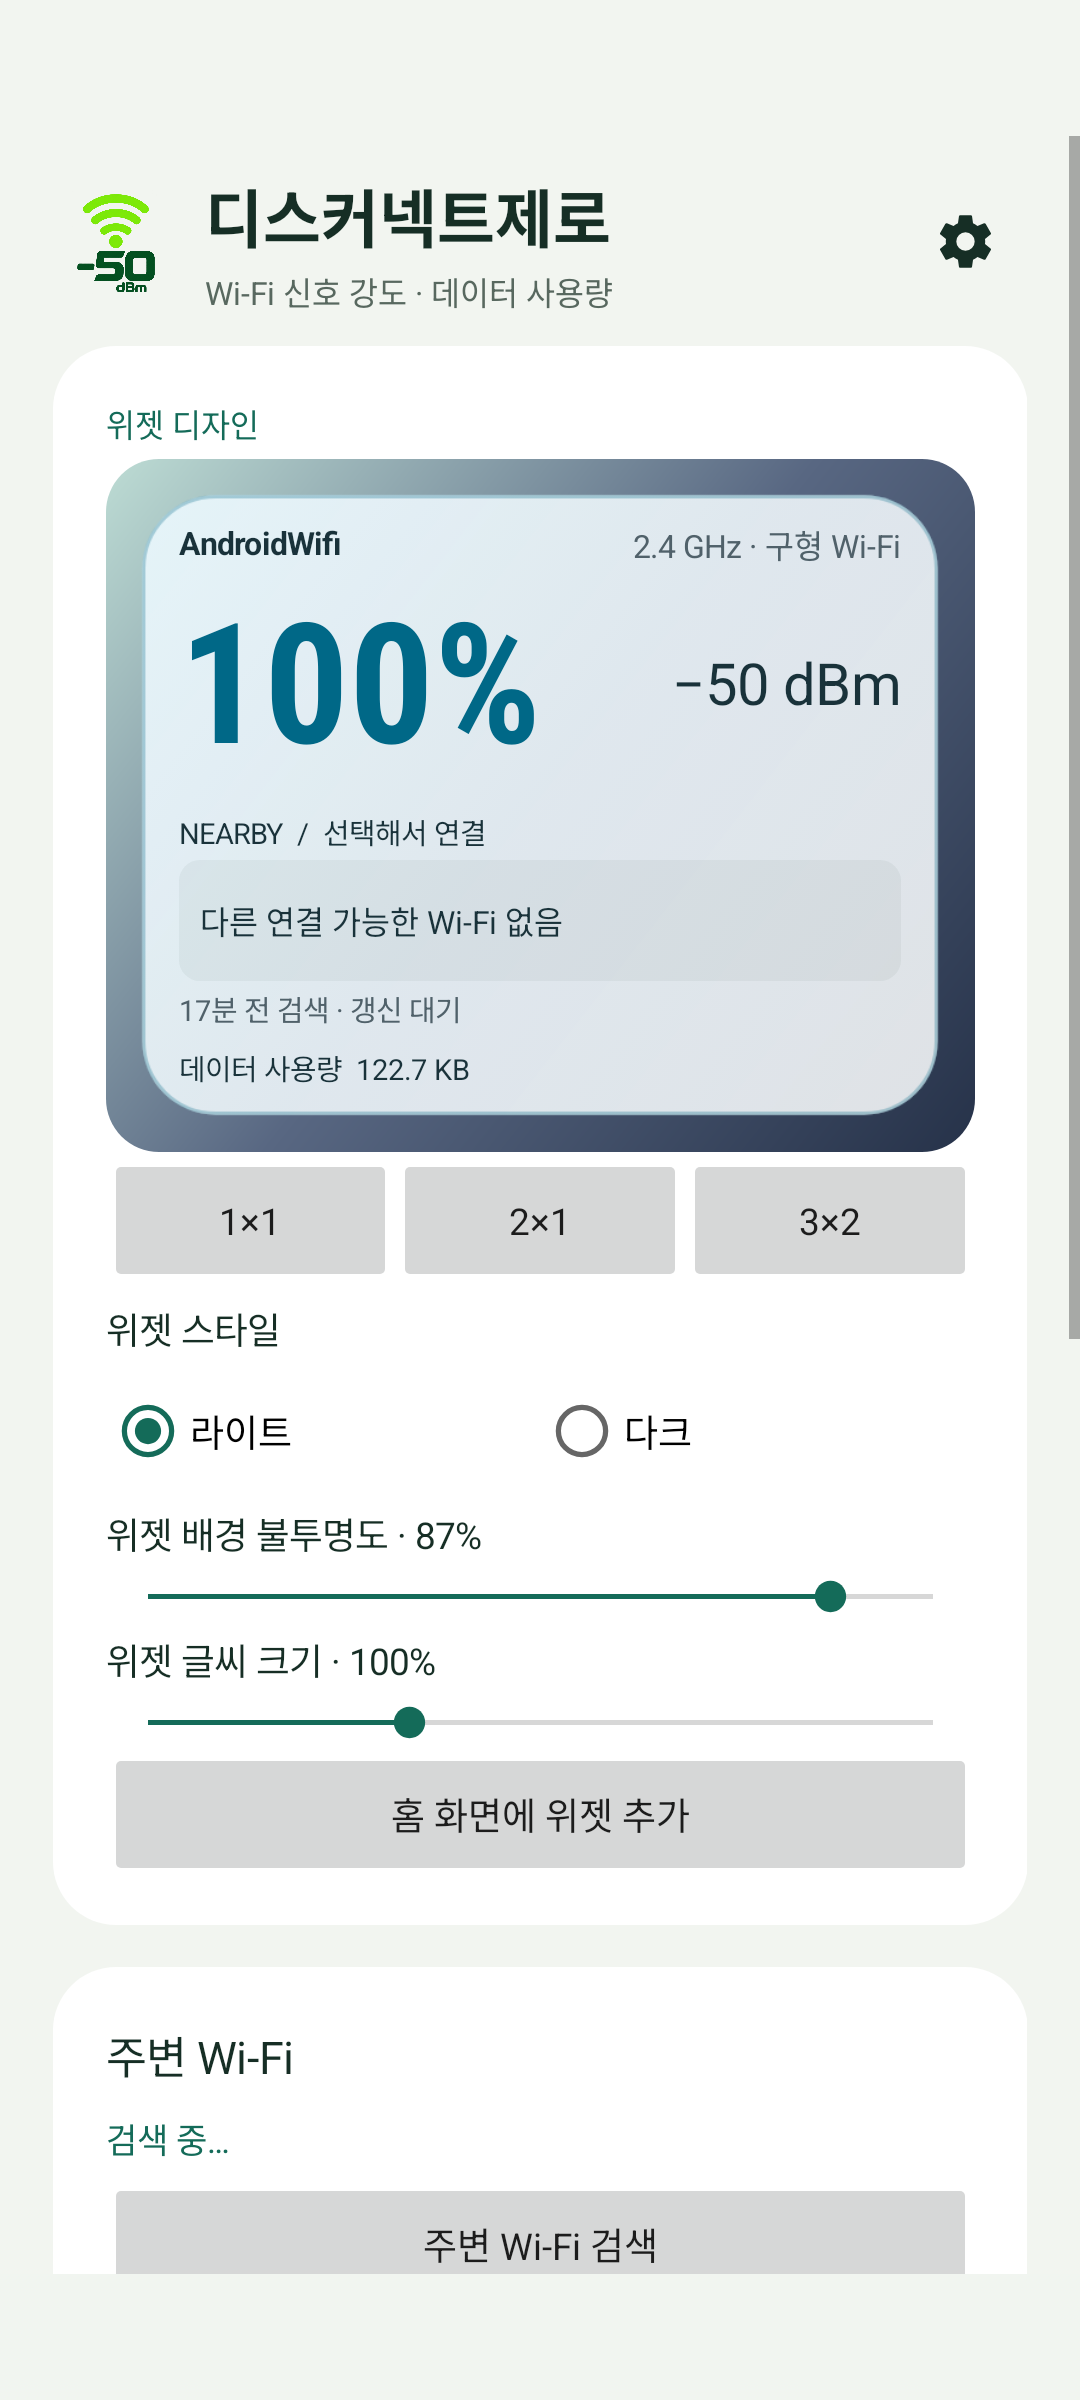
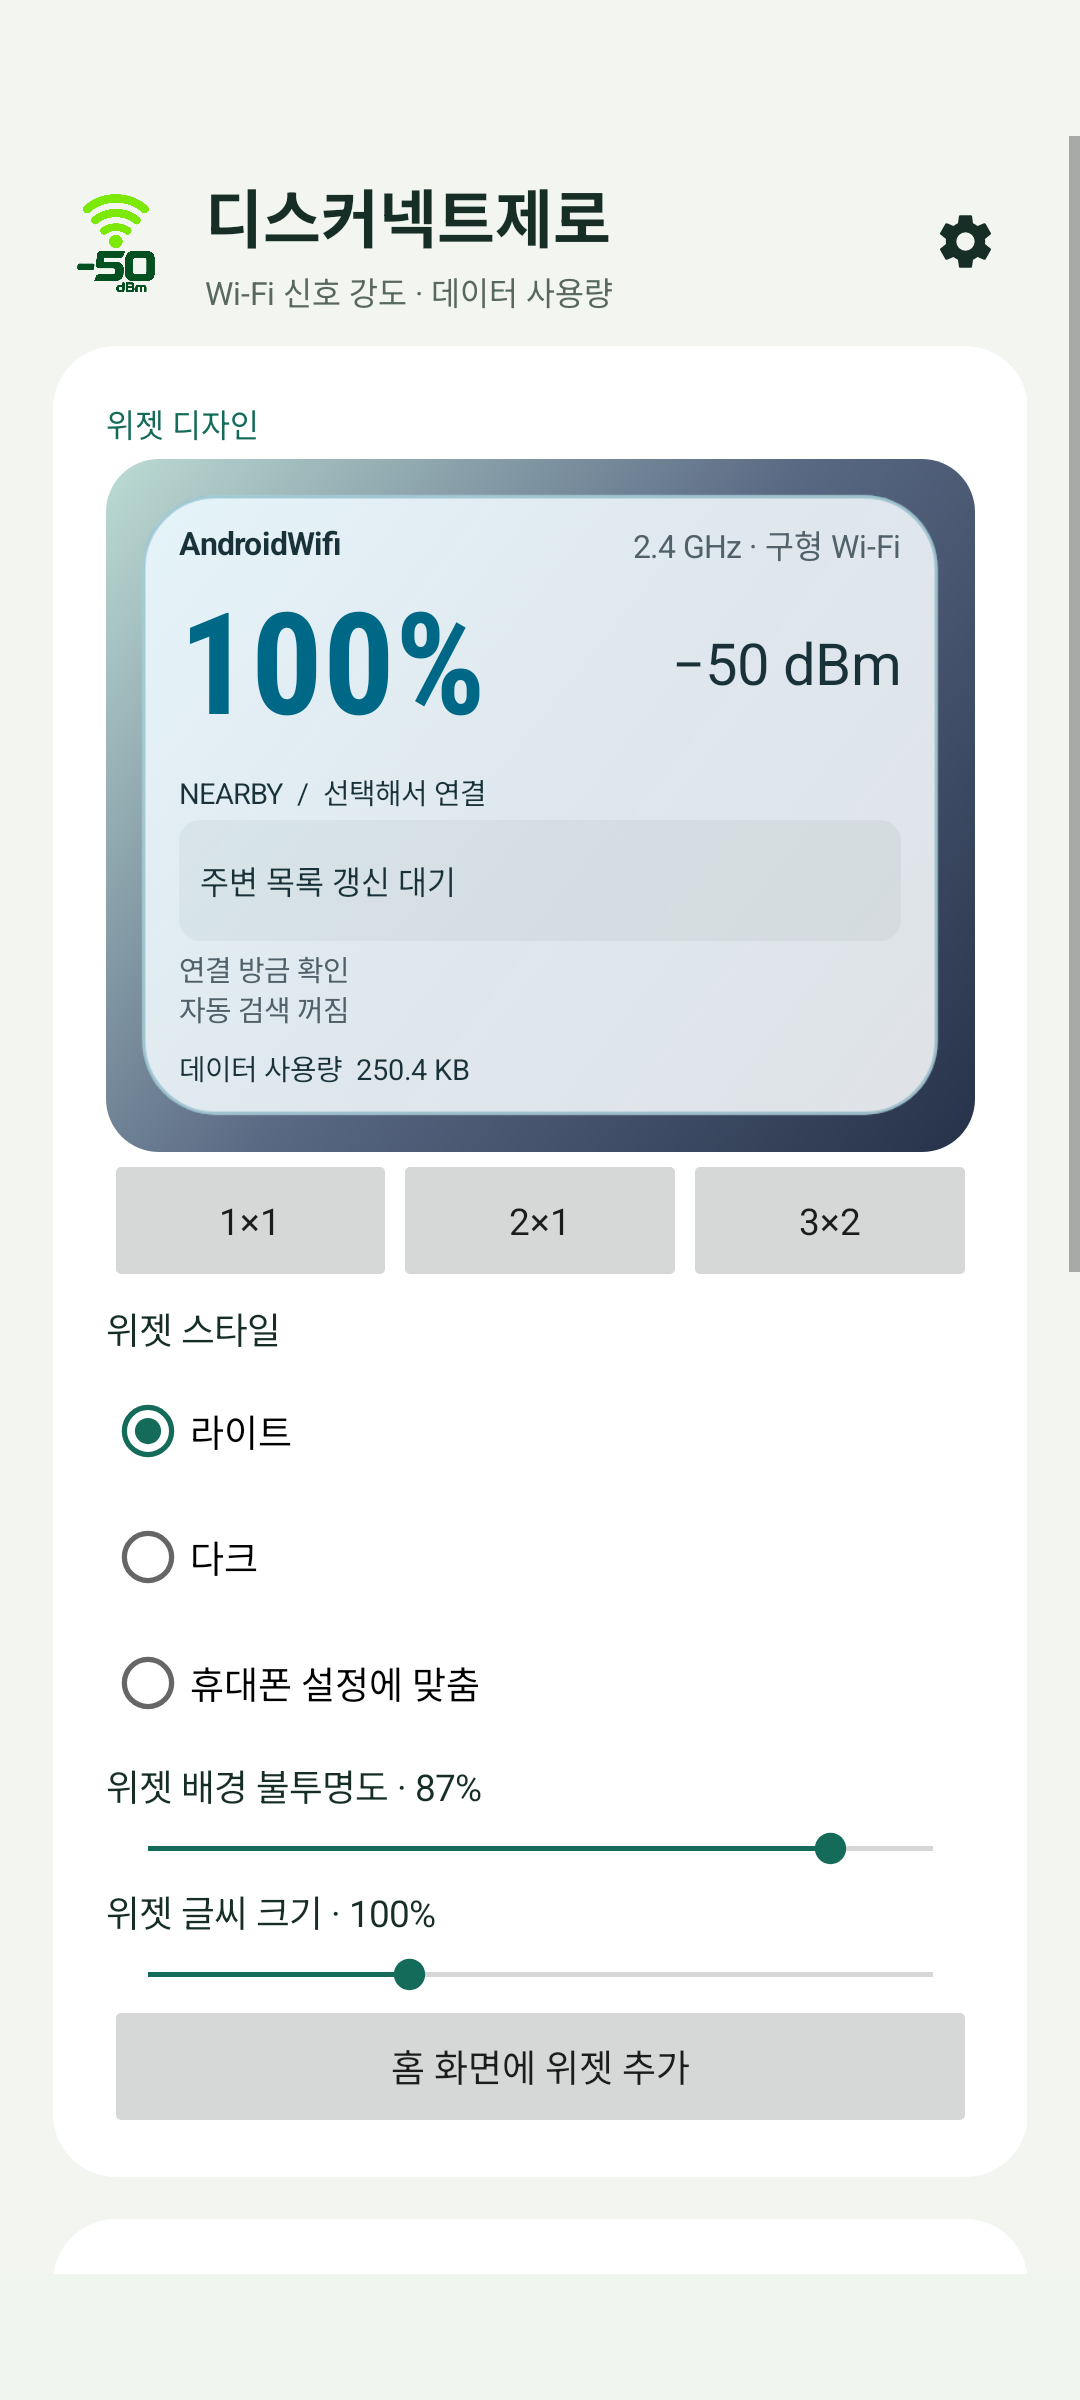
v1.0.11 위젯 휴대폰 테마 자동 적용 안내

diff --git a/VALIDATION.md b/VALIDATION.md
@@ -1,17 +1,15 @@
-# 디스커넥트제로 v1.0.10 검증 안내
+# 디스커넥트제로 v1.0.11 검증 안내
 
-release 빌드·동일 서명 업데이트 설치·버전 1.0.10을 확인했습니다. Android lint 오류 0, 기존 보조 글꼴·벡터 경고 4건입니다.
+release 빌드·기존과 동일 서명 업데이트 설치·버전 1.0.11을 확인했습니다. Android lint 오류 0, 기존 보조 글꼴·벡터 경고 4건입니다.
 
-- API 35 에뮬레이터에서 위치 ‘항상 허용’을 제거하고 정확한 위치 ‘앱 사용 중에만 허용’으로 검사했습니다.
-- 앱을 열어 자동 갱신을 시작하고 화면을 닫은 뒤, 약 61초 후 새 주변 Wi-Fi 검색 결과가 실제로 들어오는 것을 확인했습니다. 연결 수치 갱신과 별개로 검색 결과의 시각이 새로 바뀌었는지 확인했습니다.
-- 검색 실패 때 성공 시각을 바꾸지 않는 동작, 2분이 지난 목록 숨김, 자동 검색 꺼짐 안내를 확인했습니다.
-- 라이트·다크 위젯 3크기, 긴 Wi-Fi 이름, 글씨 100·140%, 대역·규격과 현재 연결 목록 제외의 회귀 검사를 통과했습니다.
-- 앱과 GitHub의 설치·보안 안내를 유지했습니다. 앱 소스와 서명 키는 공개하지 않습니다.
+- API 35 에뮬레이터에서 위젯 스타일의 라이트·다크·휴대폰 설정에 맞춤 선택을 확인했습니다.
+- 같은 위젯 표시 자료를 밝은/어두운 호스트 환경에 각각 적용해 3크기의 신호 강도·데이터 글씨, 배경·하단 패널 색상이 맞는지 확인했습니다. 고정 라이트·다크가 휴대폰 모드와 관계없이 유지되는 것도 확인했습니다.
+- 실제 시스템 라이트·다크 전환, 앱 화면 모드와 위젯 스타일의 독립 저장, 기존 화면 모드·설정 복귀 검사를 통과했습니다.
+- 기존 위젯의 긴 이름, 주파수·규격, 현재 연결 항목 제외, 글씨 100·140%와 라이트·다크 배치 검사를 통과했습니다.
+- 설치·보안 안내와 1분 검색·데이터 집계 기준은 유지했습니다. 추가 권한은 없습니다.
 
-v1.0.9의 검사는 연결 상태의 1분 갱신을 확인했지만, ‘앱 사용 중’ 위치 권한으로 앱 화면을 닫았을 때 주변 검색이 생략되는 조건을 놓쳤습니다. v1.0.10은 앱 화면에서 위치 유형의 실행 서비스를 시작하도록 보완했습니다.
+앱에서 메인 → 위젯 디자인 → 위젯 스타일 → 휴대폰 설정에 맞춤을 선택하세요. 기존 고정 선택은 업데이트 후에도 유지합니다.
 
-업데이트 후 위치를 ‘앱 사용 중 허용’ + 정확한 위치로 설정하고 휴대폰 위치를 켠 뒤 앱을 한 번 열어 주세요. 소리 없는 실행 중 알림이 유지되는 동안 홈 화면에서도 1분마다 검색을 요청합니다. 재부팅·서비스 종료 후에는 앱을 다시 열어야 할 수 있습니다. 절전·화면 꺼짐·Android 검색 제한으로 실제 완료는 지연될 수 있습니다.
+Galaxy/One UI 실제 런처의 모드 전환 시점과 장시간 절전 동작은 실기기 미확인입니다. 주변 검색은 Android 제한을 따릅니다.
 
-Galaxy/One UI 장시간 절전·재부팅·실제 5G 및 듀얼 SIM 전환은 실기기 미확인입니다. 에뮬레이터 결과가 모든 휴대전화의 동작을 보장하지는 않습니다.
-
-공개 첨부는 APK와 SHA-256이며 자동 Source ZIP에는 공개 안내와 이미지만 포함합니다.
+공개 첨부는 APK와 SHA-256이며 자동 Source ZIP에는 공개 안내와 이미지만 포함합니다. 앱 소스와 서명 키는 비공개입니다.
